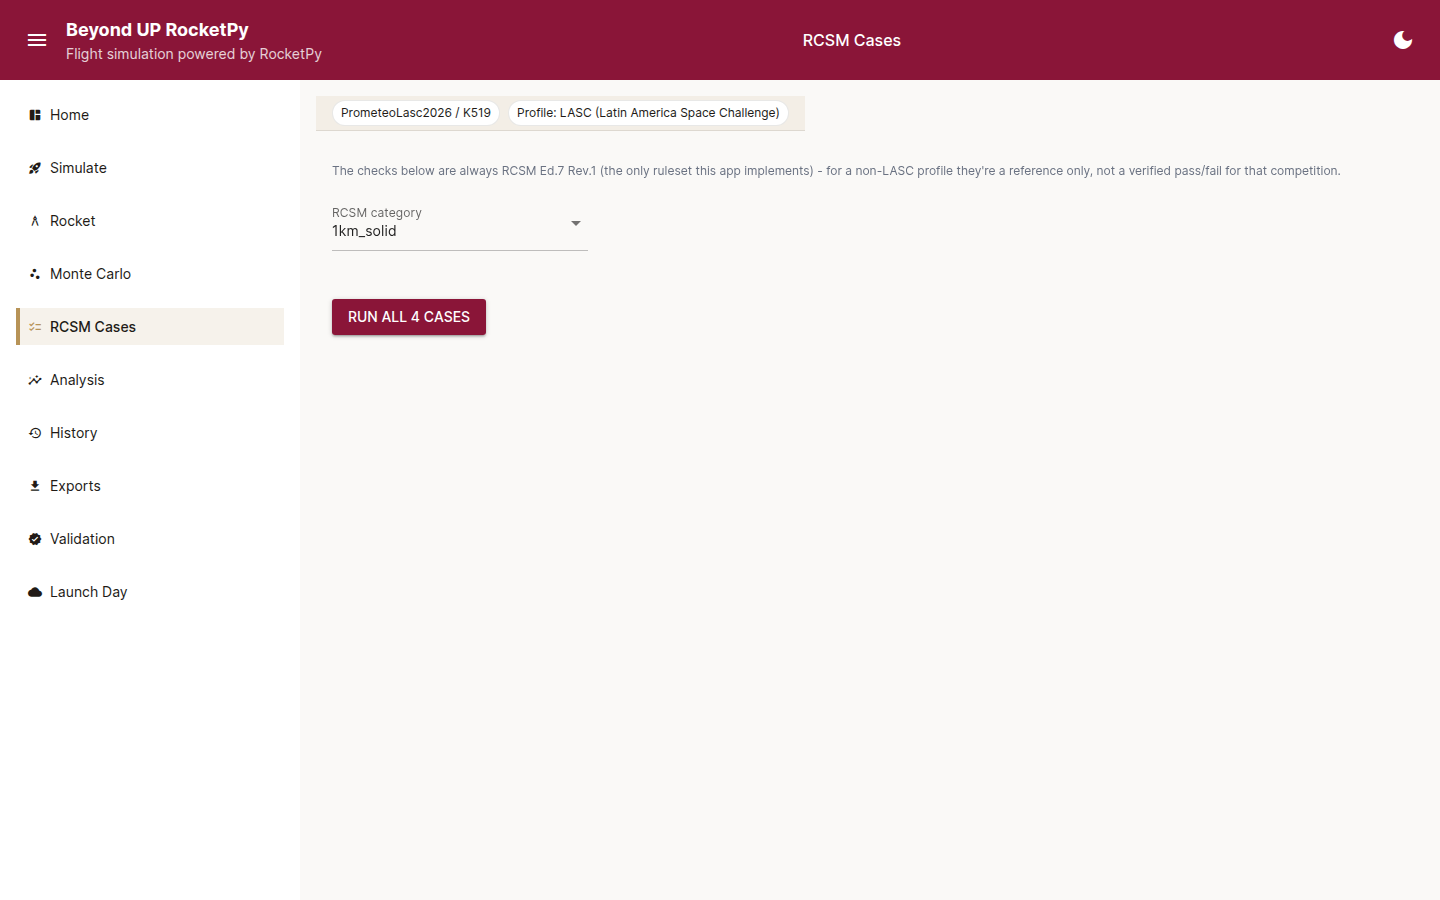
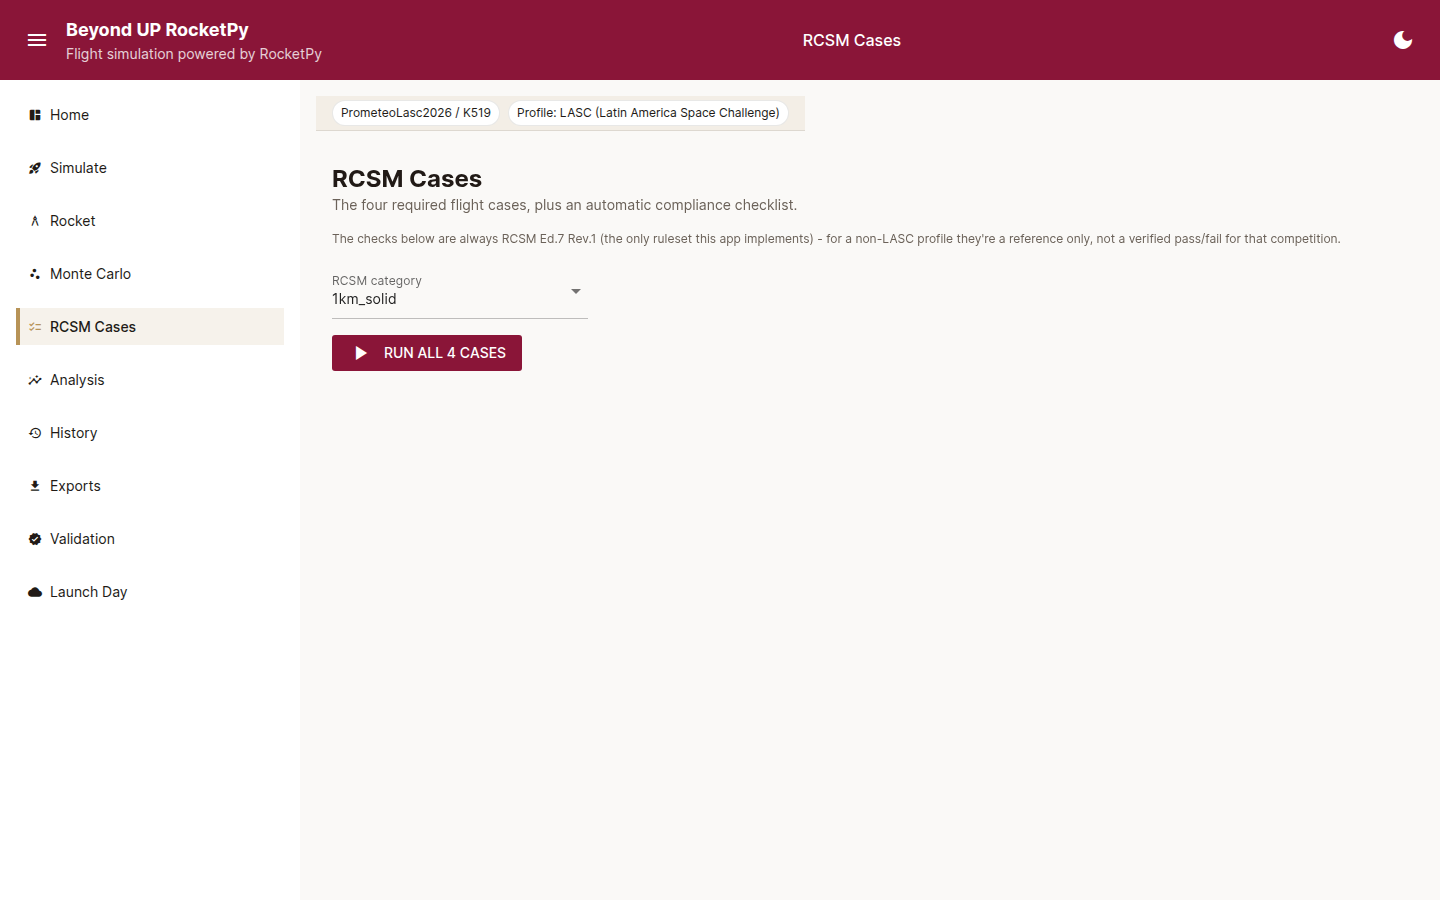
UI redesign: RCSM Cases page
- 4 case-result cards (Ballistic/Nominal/DrogueOnly/MainAtApogee) with
  an OK/NOT BUILT status chip each, instead of bare ui.card().
- Compliance checklist rewritten as a real checklist: one row per rule
  with a check/warning/cancel icon (colored by PASS/WARN/FAIL) and a
  status chip on the right, instead of a plain ui.table.
- page_header + empty_state for the "nothing loaded yet" guard.

Verified post-run rendering with a manual Playwright script (clicks
"Run all 4 cases", screenshots the compliance checklist) since the
existing e2e sweep only visits the page pre-run; full e2e suite
(test_phase0_e2e_full.py, 3/3) still green.

Claude-Session: https://claude.ai/code/session_01RHCgNw4tm9jk7r5jJja457

diff --git a/bup_rocketpy/gui/pages/rcsm_page.py b/bup_rocketpy/gui/pages/rcsm_page.py
@@ -3,28 +3,31 @@ import os
 
 from nicegui import ui
 
-from bup_rocketpy.gui import layout, state
+from bup_rocketpy.gui import components, layout, state
 from bup_rocketpy import competition_profiles, rcsm, rcsm_cases
 
 s = state.state
 OUTPUTS_DIR = os.path.join(os.getcwd(), "outputs", "gui_run")
 
 CATEGORY_OPTIONS = list(rcsm.CATEGORIES.keys())
+_STATUS_ICON = {"PASS": ("check_circle", "good"), "FAIL": ("cancel", "bad"), "WARN": ("warning", "warn")}
 
 
 @ui.page("/rcsm")
 def rcsm_case_page():
     with layout.layout("RCSM Cases", current_path="/rcsm"):
+        components.page_header("RCSM Cases", "The four required flight cases, plus an automatic compliance checklist.")
         if s["load_result"] is None or s["sim_result"] is None:
-            ui.label("Load files and click Simulate on the Simulate page first (no manual override needed - the default path works from the .ork alone).").classes("text-gray-500")
+            components.empty_state("checklist", "Load files and click Simulate on the Simulate page first (no manual override needed - the default path works from the .ork alone).", action_label="Go to Simulate", on_action=lambda: ui.navigate.to("/simulate"))
             return
 
         profile = competition_profiles.get_profile(s["competition_profile"])
         if profile.compliance_ruleset != "RCSM_ED7_REV1":
-            ui.label(f"{profile.display_name}: {profile.rules_status}").classes("bup-provisional-badge px-3 py-2 rounded font-bold")
-        ui.label("The checks below are always RCSM Ed.7 Rev.1 (the only ruleset this app implements) - for a non-LASC profile they're a reference only, not a verified pass/fail for that competition.").classes("text-xs text-gray-500")
+            components.status_chip(f"{profile.display_name}: {profile.rules_status}", "warning")
+        ui.label("The checks below are always RCSM Ed.7 Rev.1 (the only ruleset this app implements) - for a non-LASC profile they're a reference only, not a verified pass/fail for that competition.").classes("text-xs").style("color: var(--bup-muted)")
 
         category_select = ui.select(CATEGORY_OPTIONS, value="1km_solid", label="RCSM category").classes("w-64")
+        components.button("Run all 4 cases", kind="primary", icon="play_arrow", on_click=lambda: run_cases())
         results_container = ui.column().classes("w-full mt-4")
 
         def run_cases():
@@ -45,25 +48,27 @@ def rcsm_case_page():
             results_container.clear()
             with results_container:
                 ui.label("Case results").classes("text-lg font-bold")
-                with ui.grid(columns=4).classes("gap-4"):
-                    for name, r in results.items():
-                        with ui.card():
-                            ui.label(name).classes("font-bold")
-                            if r.flight is None:
-                                ui.label("NOT BUILT").classes("text-red-600")
-                            else:
-                                ui.label(f"Apogee AGL: {r.flight.apogee - r.flight.env.elevation:.1f} m")
-                                ui.label(f"Rail exit: {r.flight.out_of_rail_velocity:.1f} m/s")
+                with ui.grid(columns=4).classes("gap-3 w-full"):
+                    for i, (name, r) in enumerate(results.items()):
+                        with components.card(stagger_index=i):
+                            with ui.row().classes("items-center justify-between w-full"):
+                                ui.label(name).classes("font-bold")
+                                components.status_chip("NOT BUILT" if r.flight is None else "OK", "bad" if r.flight is None else "success")
+                            if r.flight is not None:
+                                ui.label(f"Apogee AGL: {r.flight.apogee - r.flight.env.elevation:.1f} m").classes("text-sm")
+                                ui.label(f"Rail exit: {r.flight.out_of_rail_velocity:.1f} m/s").classes("text-sm")
                             if r.warning:
-                                ui.label(r.warning).classes("text-xs text-orange-600 mt-1")
+                                ui.label(r.warning).classes("text-xs mt-1").style("color: var(--bup-warning)")
 
-                ui.label("RCSM compliance (Nominal case)").classes("text-lg font-bold mt-4")
-                ui.table(
-                    columns=[{"name": "rule", "label": "Rule", "field": "rule"},
-                             {"name": "check", "label": "Check", "field": "check"},
-                             {"name": "status", "label": "Status", "field": "status"},
-                             {"name": "detail", "label": "Detail", "field": "detail"}],
-                    rows=[{"rule": r[0], "check": r[1], "status": r[2], "detail": r[3]} for r in compliance_rows],
-                ).classes("w-full")
-
-        ui.button("Run all 4 cases", on_click=run_cases)
+                with components.card(classes="w-full mt-2"):
+                    ui.label("RCSM compliance (Nominal case)").classes("font-bold")
+                    for row in compliance_rows:
+                        rule, check, status, detail = row[0], row[1], row[2], row[3]
+                        icon_name, kind = _STATUS_ICON.get(status, ("help", "neutral"))
+                        with ui.row().classes("items-center gap-2 w-full py-1 border-b").style("border-color: var(--bup-border)"):
+                            ui.icon(icon_name).style(f"color: var(--bup-{'success' if kind == 'good' else 'error' if kind == 'bad' else 'warning' if kind == 'warn' else 'muted'})")
+                            with ui.column().classes("gap-0 flex-1"):
+                                ui.label(f"{rule} - {check}").classes("text-sm font-medium")
+                                ui.label(detail).classes("text-xs").style("color: var(--bup-muted)")
+                            components.status_chip(status, kind if kind != "neutral" else "neutral")
+            components.finish_motion()
